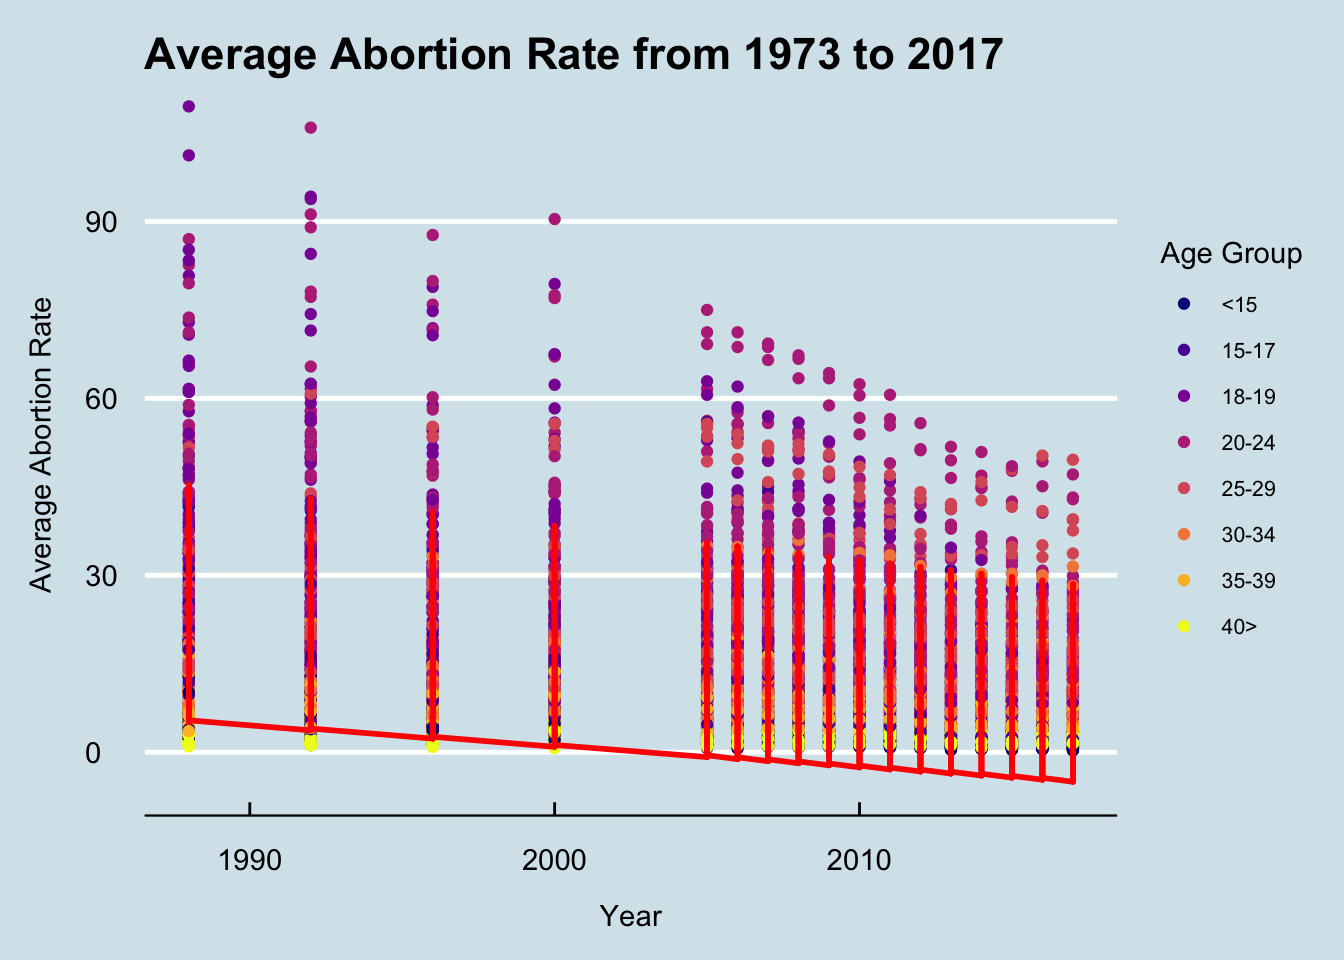
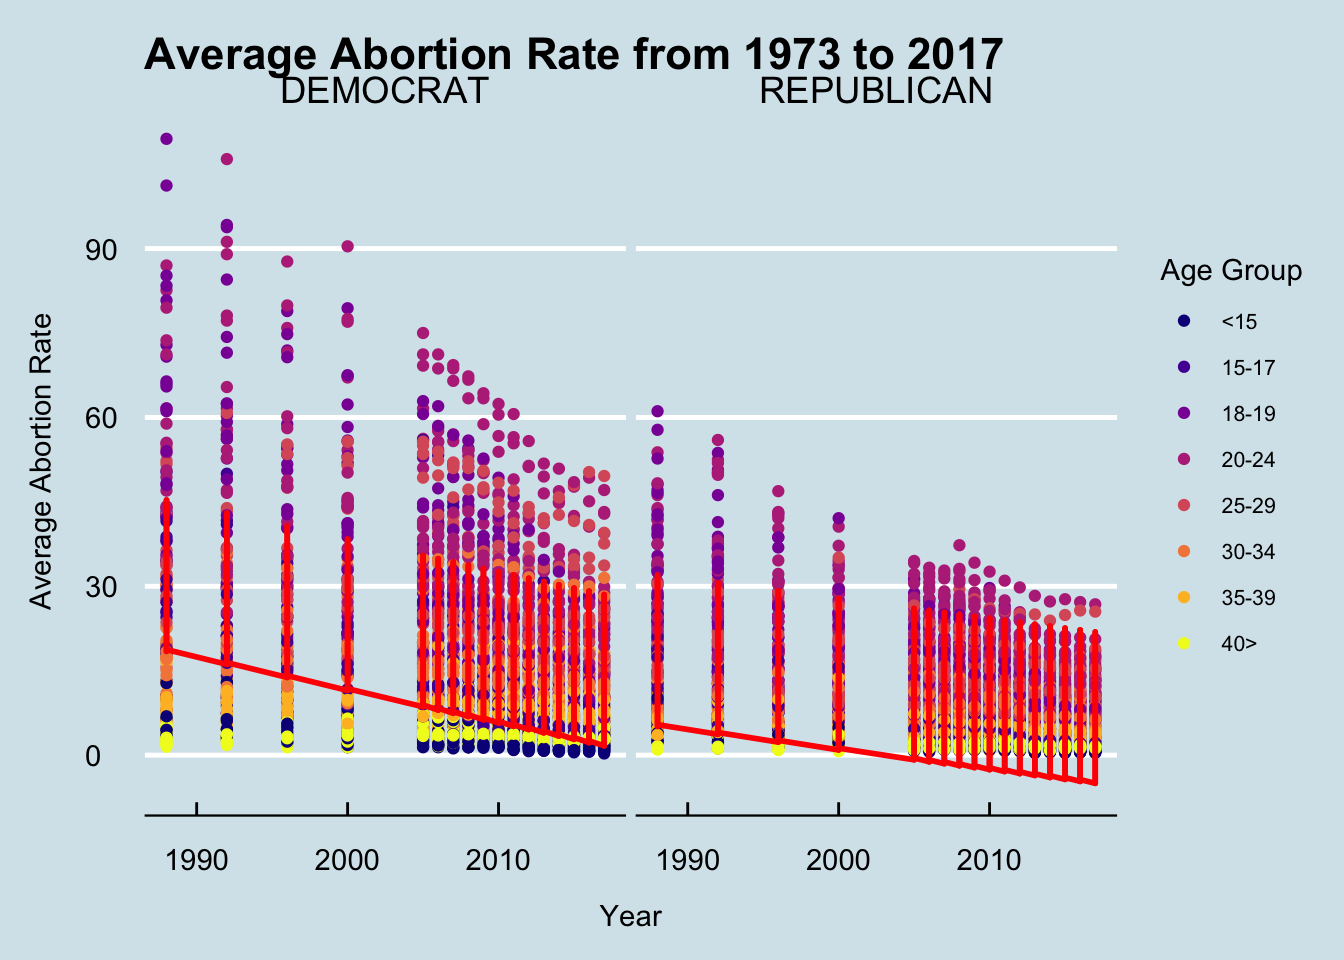
More edits.

diff --git a/content/analysis.html b/content/analysis.html
@@ -135,6 +135,7 @@ draft: false
  AbortionRateData %&gt;%
    ggplot(aes(x = year)) + 
    geom_point(aes(y = AverageAbortionRate, color = as.factor(Age))) + 
+   facet_wrap(~ as.factor(Affiliation)) +
    geom_line(aes(y = pred), data = AbortionRateData, color = &quot;red&quot;, size = 1) + 
    labs(title = &#39;Average Abortion Rate from 1973 to 2017&#39;, x = &#39;\nYear&#39;, y = &#39;Average Abortion Rate\n&#39;, color = &quot;Age Group&quot;) + 
    ggthemes::theme_economist() +
